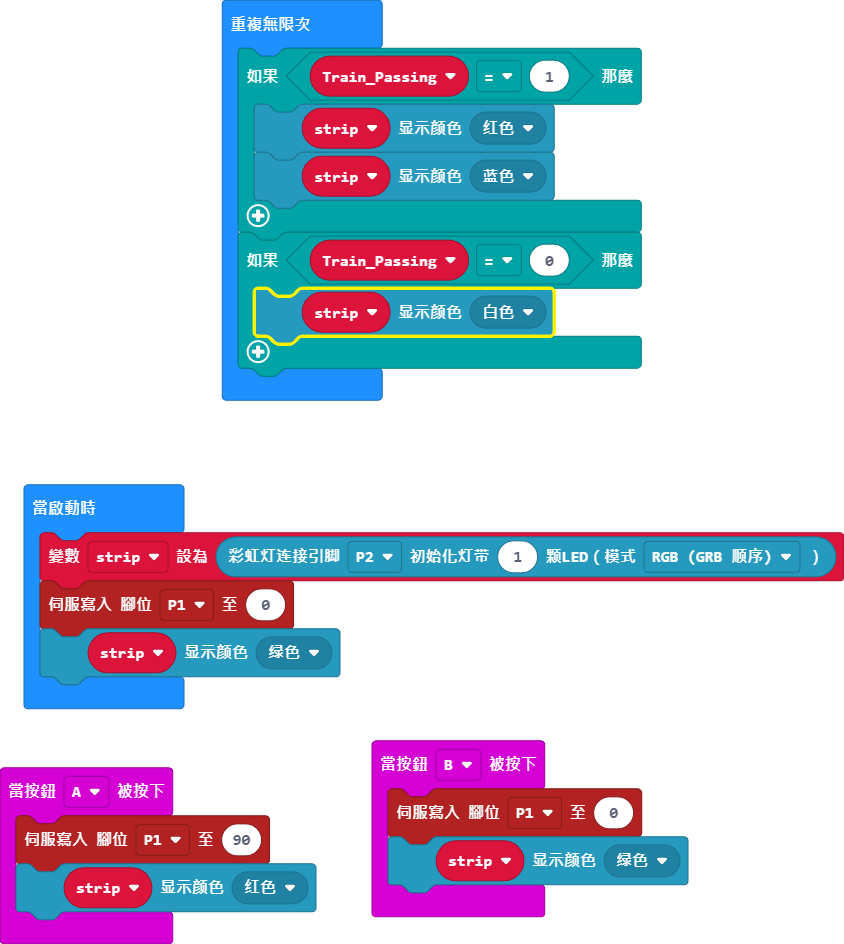
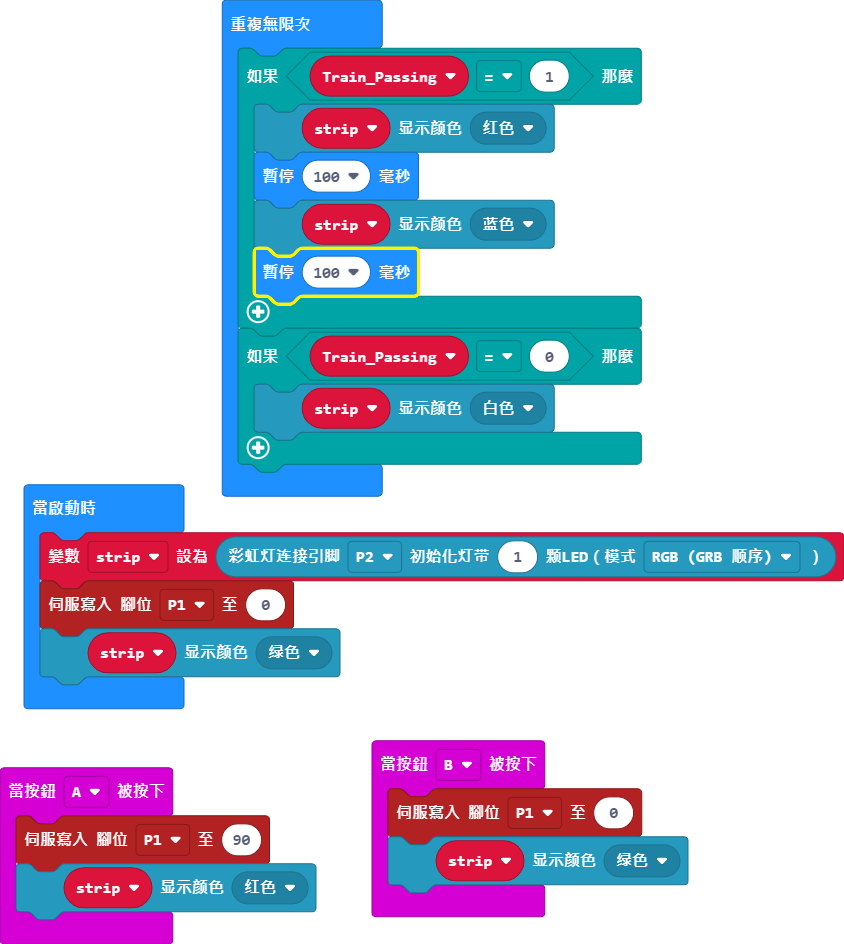
更新 main.blocks, main.ts

Changed region(s): [[0.2464, 0.1536, 0.7701, 0.553]]

diff --git a/main.ts b/main.ts
@@ -14,7 +14,9 @@ basic.forever(function () {
     let Train_Passing = 0
     if (Train_Passing == 1) {
         strip.showColor(neopixel.colors(NeoPixelColors.Red))
+        basic.pause(100)
         strip.showColor(neopixel.colors(NeoPixelColors.Blue))
+        basic.pause(100)
     }
     if (Train_Passing == 0) {
         strip.showColor(neopixel.colors(NeoPixelColors.White))
